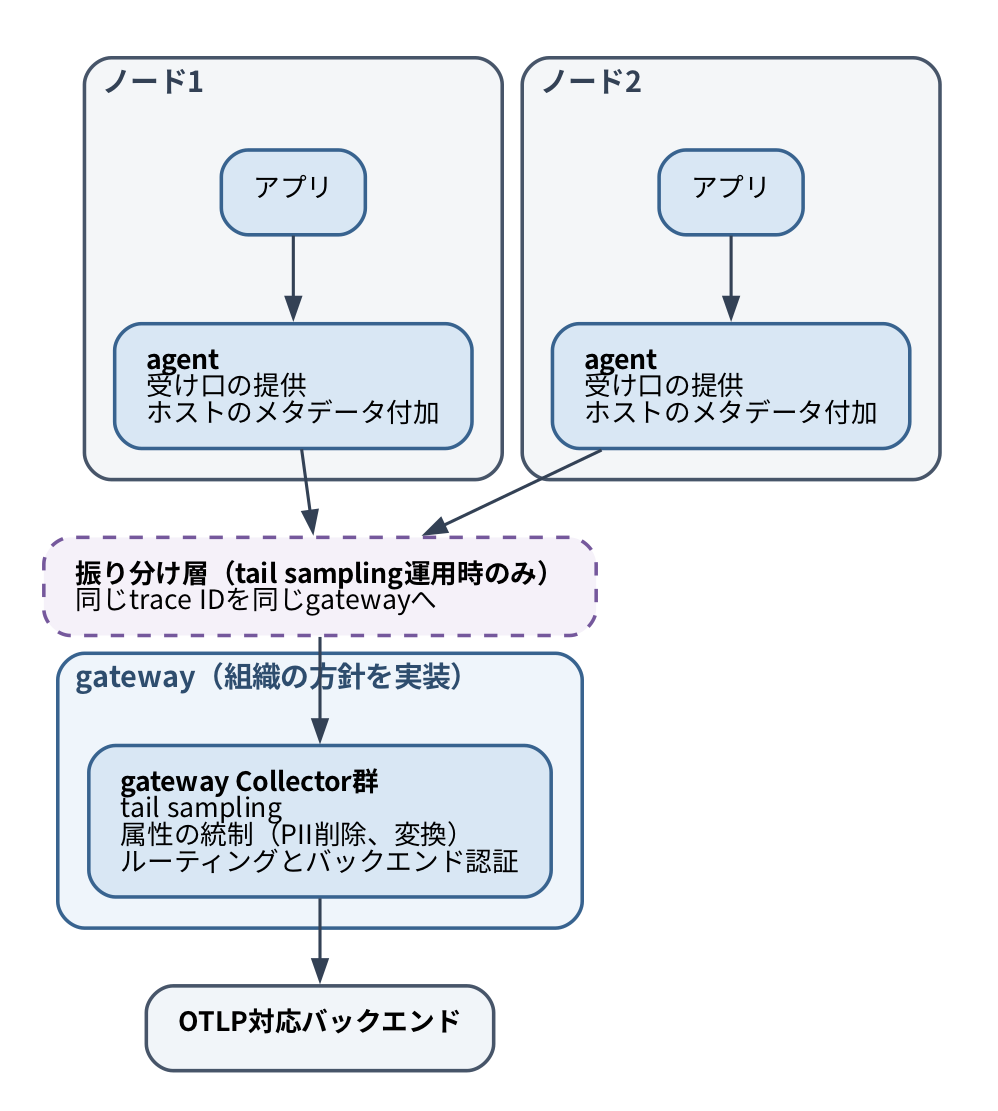
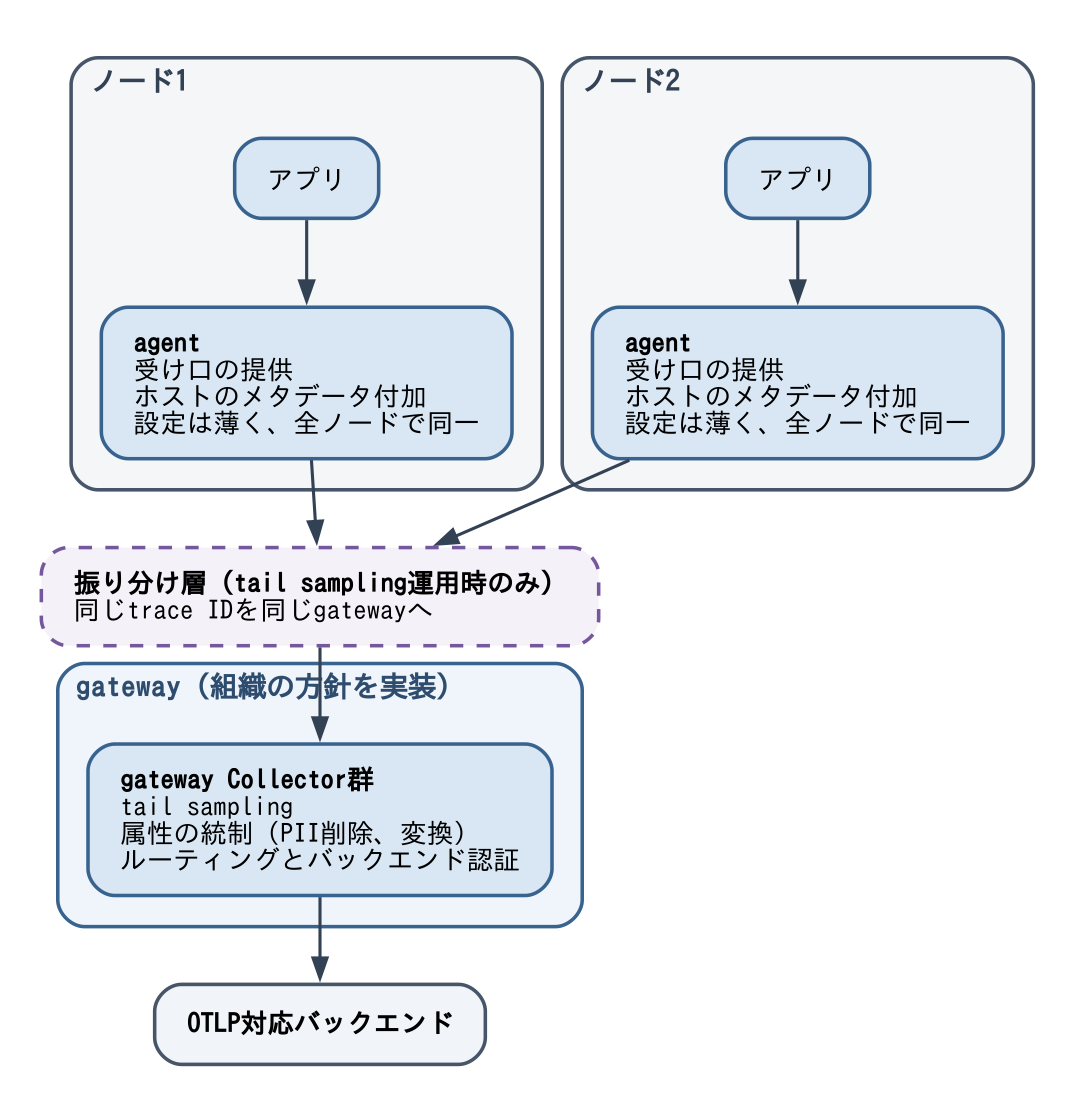
fix(observability-platform-with-otel): 初学者レビューの残り指摘を反映する
新入生読者レビューの指摘のうち、未反映だった5件を直した。

- 00章: 責任分界表の前置きを「初読では全体の形だけ見ればよい」と明示
- 30章: pdataとconfmapが何のAPIかを括弧なしの説明で補い、confmap provider
  の初出に定義と後続節への参照を置いた
- 30章図1: 2つのagentの箱に同じ説明を入れ、片方だけ役割が違うように
  見える状態を解消。キャプションで振り分け層が条件付きであることを明示
- 80章: telemetrygen を「公式のテストツール」と分かる語順にした

span / exporter / Baggage / exemplar / redaction / MCP / SpanKind /
高カーディナリティ / schema URL / opampextension の指摘は、レビュー後の
改稿で既に反映済みであることを確認した。

Changed region(s): [[0.0311, 0.0308, 0.9629, 0.9855], [0.9008, 0.0308, 0.9319, 0.0616], [0.4659, 0.0308, 0.497, 0.0616]]

diff --git a/books/observability-platform-with-otel/30-collector_build.md b/books/observability-platform-with-otel/30-collector_build.md
@@ -34,7 +34,7 @@ Collectorには、主に三つの配置があります。
 agentはアプリケーションと同じノードで動くため、ノード障害の影響をともに受けます。二段構成にしても損失条件はなくなりません。各層のキューと再送を設計し、どの障害でどこまで失うかを決めます。
 
 ![agentとgatewayの2段トポロジー](/images/20260926-agent-gateway.png)
-*図1　矢印はテレメトリーの流れを表します。agentは各ノードで同じ最小限の処理を行い、組織の方針はgatewayへ集約します。tail samplingを水平スケールさせる場合は、振り分け層を追加します。*
+*図1　矢印はテレメトリーの流れを表します。二つのノードのagentは同じ役割で、全ノードに同じ設定を配ります。組織の方針はgatewayへ集約します。破線の振り分け層は、tail samplingを水平スケールさせる場合にだけ追加します。*
 
 ## gateway層の処理設計
 
@@ -91,11 +91,11 @@ extensions:
 
 2026年8月時点のmanifestには、バージョンと設定項目に注意が必要です。
 
-Collectorのcoreリポジトリは、v1.65.0とv0.159.0の二つのバージョンを同時にリリースしています。stableに達しているのはpdataやconfmapなどのAPI層です。receiverやprocessorなどのコンポーネントはv0系なので、manifestにはv0.159.0のようなバージョンを書きます。
+Collectorのcoreリポジトリは、v1.65.0とv0.159.0の二つのバージョンを同時にリリースしています。stableに達しているのは、テレメトリーの内部表現を扱うpdataや、設定を読み込むconfmapなどのAPI層です。receiverやprocessorなどのコンポーネントはv0系なので、manifestにはv0.159.0のようなバージョンを書きます。
 
 `otelcol_version` フィールドは、2024年11月のOCBで削除されました。古い記事にはdistセクションへ指定する例が残っていますが、現在は使いません。コンポーネント間のバージョン整合はビルド時に検査されます。
 
-設定値を環境変数などから展開するconfmap providerの `providers` セクションは省略できます。省略時はenv、file、http、https、yamlが組み込まれます。
+設定値を環境変数などから展開する仕組みを**confmap provider**と呼びます。manifestの `providers` セクションは省略でき、省略時はenv、file、http、https、yamlが組み込まれます。展開の書き方は後述の「設定ファイルの配布設計」で扱います。
 
 OCBの公式Dockerイメージを使うと、CIでも同じビルド環境を再現できます。`--skip-compilation` を指定すればコード生成だけを、`--skip-generate --skip-get-modules` を指定すればコンパイルだけを実行できます。生成コードをリポジトリへコミットし、レビュー対象にする運用も可能です。コンテナ化まで含む構成は、公式配布物をビルドする[opentelemetry-collector-releases](https://github.com/open-telemetry/opentelemetry-collector-releases)リポジトリを参照できます。
 

diff --git a/books/observability-platform-with-otel/80-reference_implementation.md b/books/observability-platform-with-otel/80-reference_implementation.md
@@ -86,7 +86,7 @@ $ ./registry/weaver.sh generate
 
 checkは、公式semconvへの依存をGit URLで解決して約3秒で成功しました。違反を検出できることも確認します。`com.example.` 以外の名前空間として `myteam.custom.flag` を定義すると、checkはRegoポリシーの `internal_namespace_only` violationで失敗しました。この定義を削除すると成功します。generateは `sdk/semconv/semconv.go` を生成し、`com.example.delivery.id` を `ComExampleDeliveryId` 定数に変換しました。生成結果はコミット済みのファイルと一致し、差分は出ません。CIはこの差分の有無を検査します。
 
-実測データはlive-checkで検査します。live-checkをOTLPの受信口として起動し、テスト用テレメトリーを生成する公式ツールtelemetrygenから、レジストリにない属性を含むスパンを送りました。`myteam.rogue.attr` はviolationとして報告され、`com.example.delivery.id` はviolationになりませんでした。ただし、`com.example.delivery.id` にはstabilityがdevelopmentであるという改善提案が付きます。
+実測データはlive-checkで検査します。live-checkをOTLPの受信口として起動し、テレメトリーを生成する公式のテストツールtelemetrygenから、レジストリにない属性を含むスパンを送りました。`myteam.rogue.attr` はviolationとして報告され、`com.example.delivery.id` はviolationになりませんでした。ただし、`com.example.delivery.id` にはstabilityがdevelopmentであるという改善提案が付きます。
 
 live-checkをコンテナで動かす場合は、リスンアドレスを明示します。既定のままではコンテナ外から送ったテレメトリーが届かず、検査対象が0件のまま終了します。実測でも最初はこれに気付かず、違反0件の結果を得ていました。`registry/weaver.sh` は `--otlp-grpc-address 0.0.0.0` を指定しています。
 

diff --git a/books/observability-platform-with-otel/00-introduction.md b/books/observability-platform-with-otel/00-introduction.md
@@ -65,7 +65,7 @@ Platform Engineeringでは、プラットフォームチームの仕事を、個
 ![中央集権モデルとセルフサービスモデルの対比](/images/20260926-central-vs-selfservice.png)
 *図3　矢印は依頼先を表します。中央集権モデルでは依頼が中央チームに集中します。セルフサービスモデルでは各チームがプラットフォームチームの配布物を利用するため、個別依頼の待ち行列を減らせます。*
 
-セルフサービスの設計では、誰が何を決めるのかを明示します。次の表は、三本柱ごとに、プラットフォームが配るもの、開発チームが決めること、基盤が強制すること、標準構成から逸脱する方法を整理したものです。専門用語は該当する章で説明します。
+セルフサービスの設計では、誰が何を決めるのかを明示します。次の表は、三本柱ごとに、プラットフォームが配るもの、開発チームが決めること、基盤が強制すること、標準構成から逸脱する方法を整理したものです。表の語は各章で説明するので、ここでは全体の形だけを見てください。
 
 | 柱 | プラットフォームが配るもの | 開発チームが決めること | 基盤が強制すること | 逸脱の方法 |
 |---|---|---|---|---|
